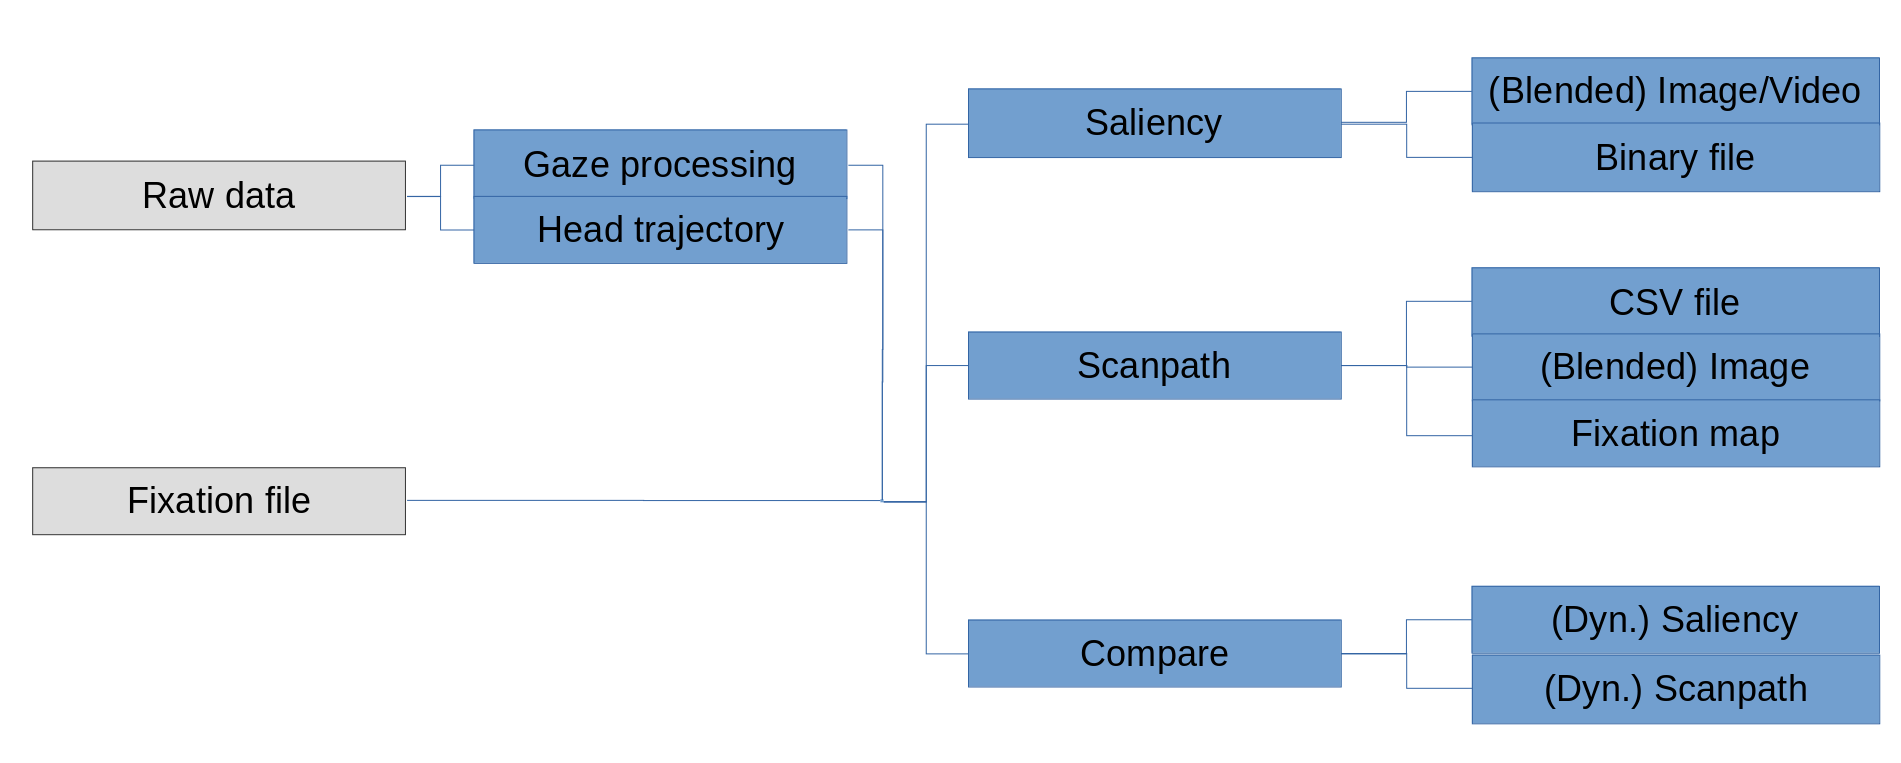
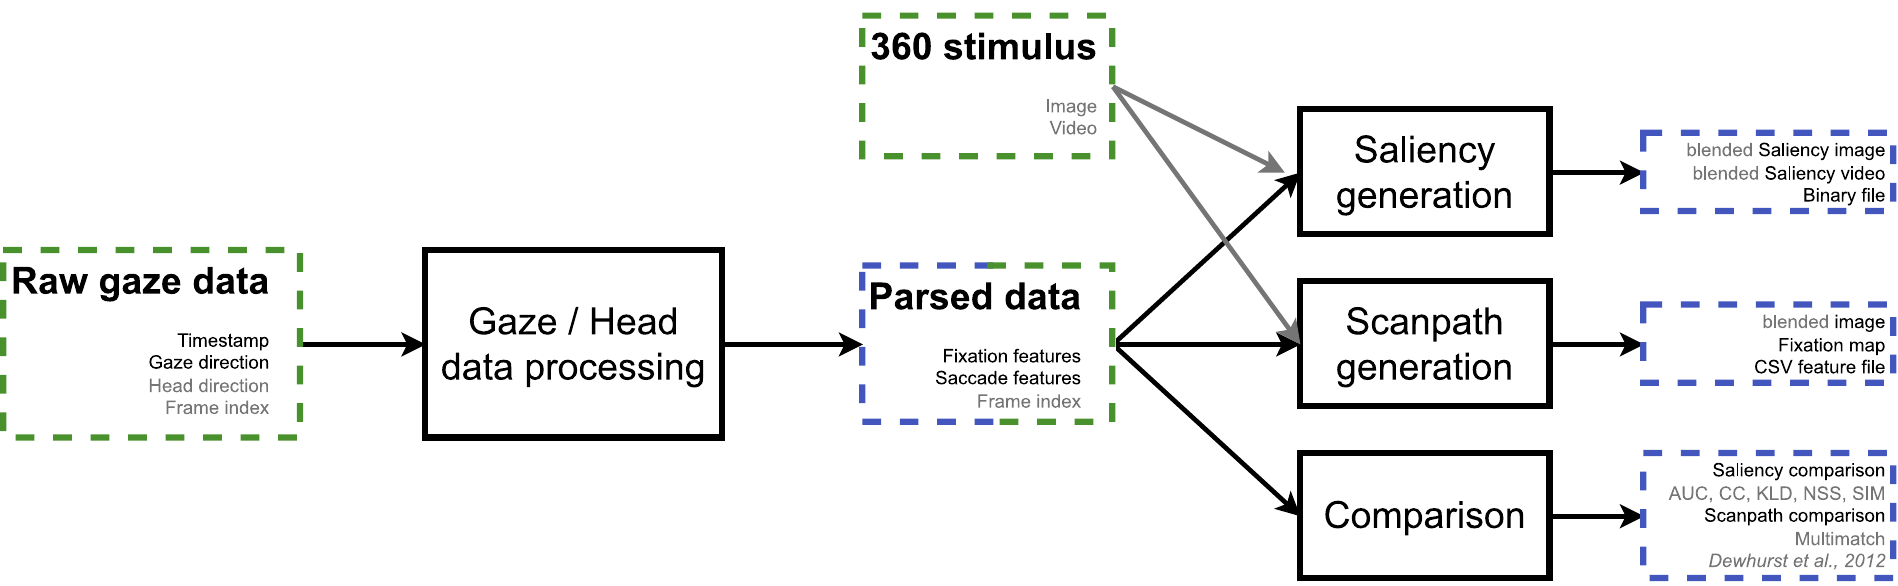
Updated Readme with citation to Computers & Graphics paper
Updated visual abstract image

diff --git a/README.md b/README.md
@@ -156,7 +156,18 @@ You can download an example of such a video [here](/documentation/UserBehaviourE
 
 ## Cite
 
-* David, E., Gutiérrez, J., Võ, M. L.-H., Coutrot, A., Perreira Da Silva, M., & Le Callet, P. (2023). The Salient360! Toolbox: Processing, Visualising and Comparing Gaze Data in 3D. 2023 Symposium on Eye Tracking Research and Applications. Tubingen, Germany. [https://doi.org/10.1145/3588015.3588406](https://doi.org/10.1145/3588015.3588406
+* David, E., Gutiérrez, J., Võ, M. L. H., Coutrot, A., Perreira Da Silva, M., & Le Callet, P. (2024). The Salient360! toolbox: Handling gaze data in 3D made easy. Computers & Graphics, 103890. [https://doi.org/10.1016/j.cag.2024.103890](10.1145/3588015.3588406)
+
+```
+@article{david2024salient360,
+  title={The Salient360! toolbox: Handling gaze data in 3D made easy},
+  author={David, Erwan and Guti{\'e}rrez, Jes{\'u}s and V{\~o}, Melissa L{\`e}-Hoa and Coutrot, Antoine and Perreira Da Silva, Matthieu and Le Callet, Patrick},
+  journal={Computers \& Graphics},
+  pages={103890},
+  year={2024},
+  publisher={Elsevier}
+}
+```
 
 ## Acknowledgements
 
